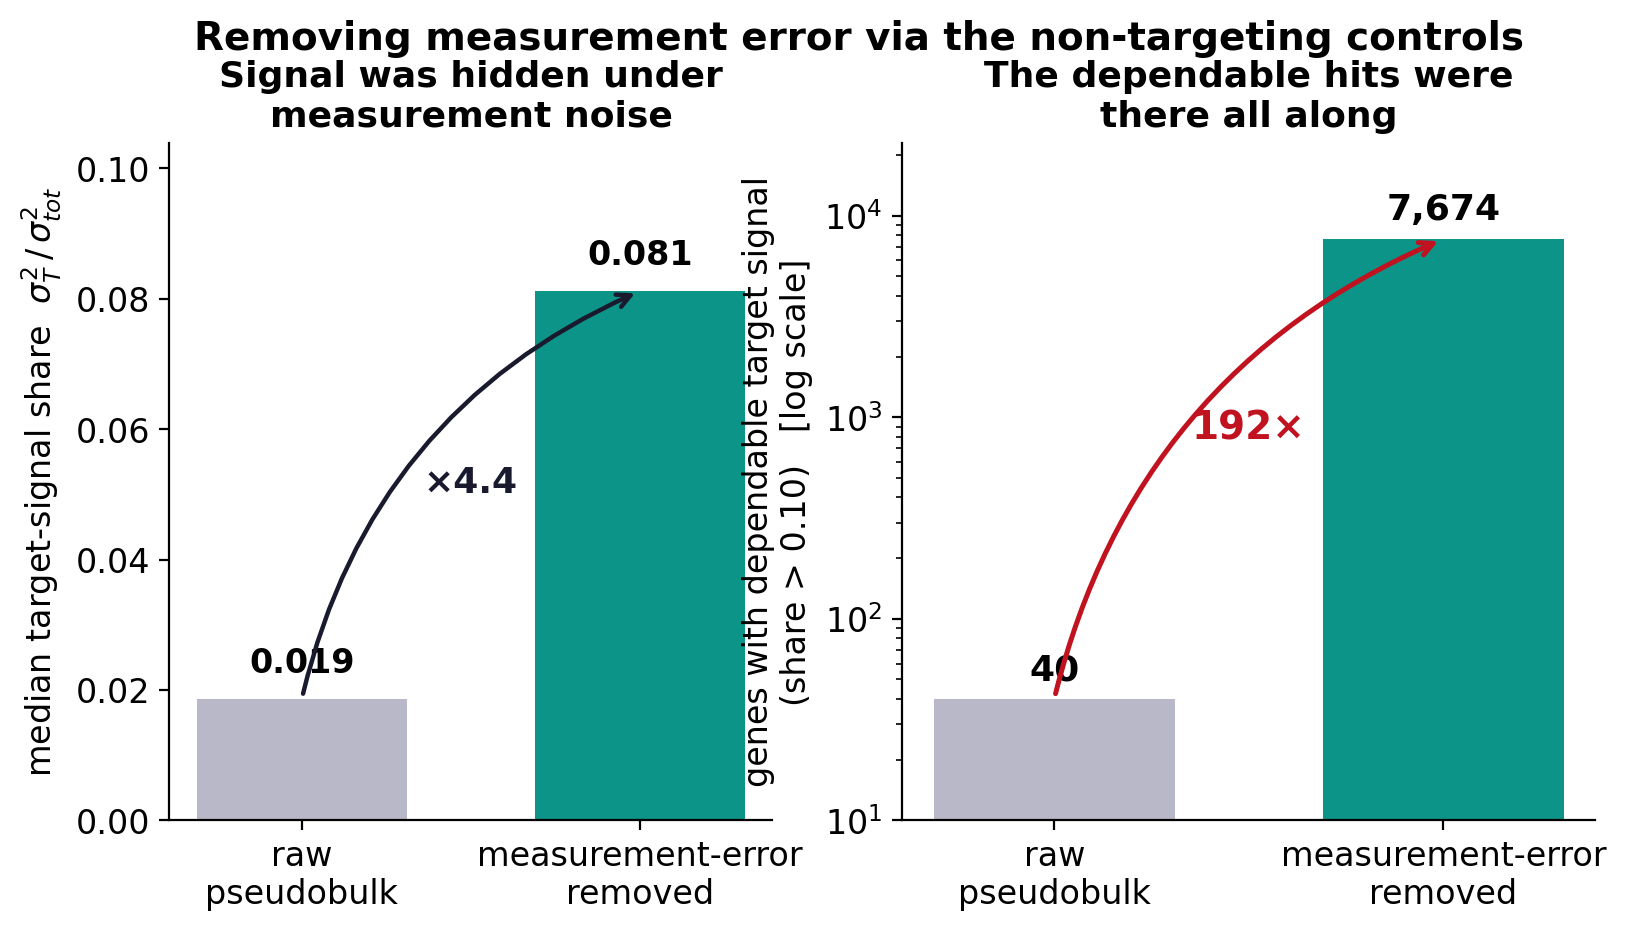
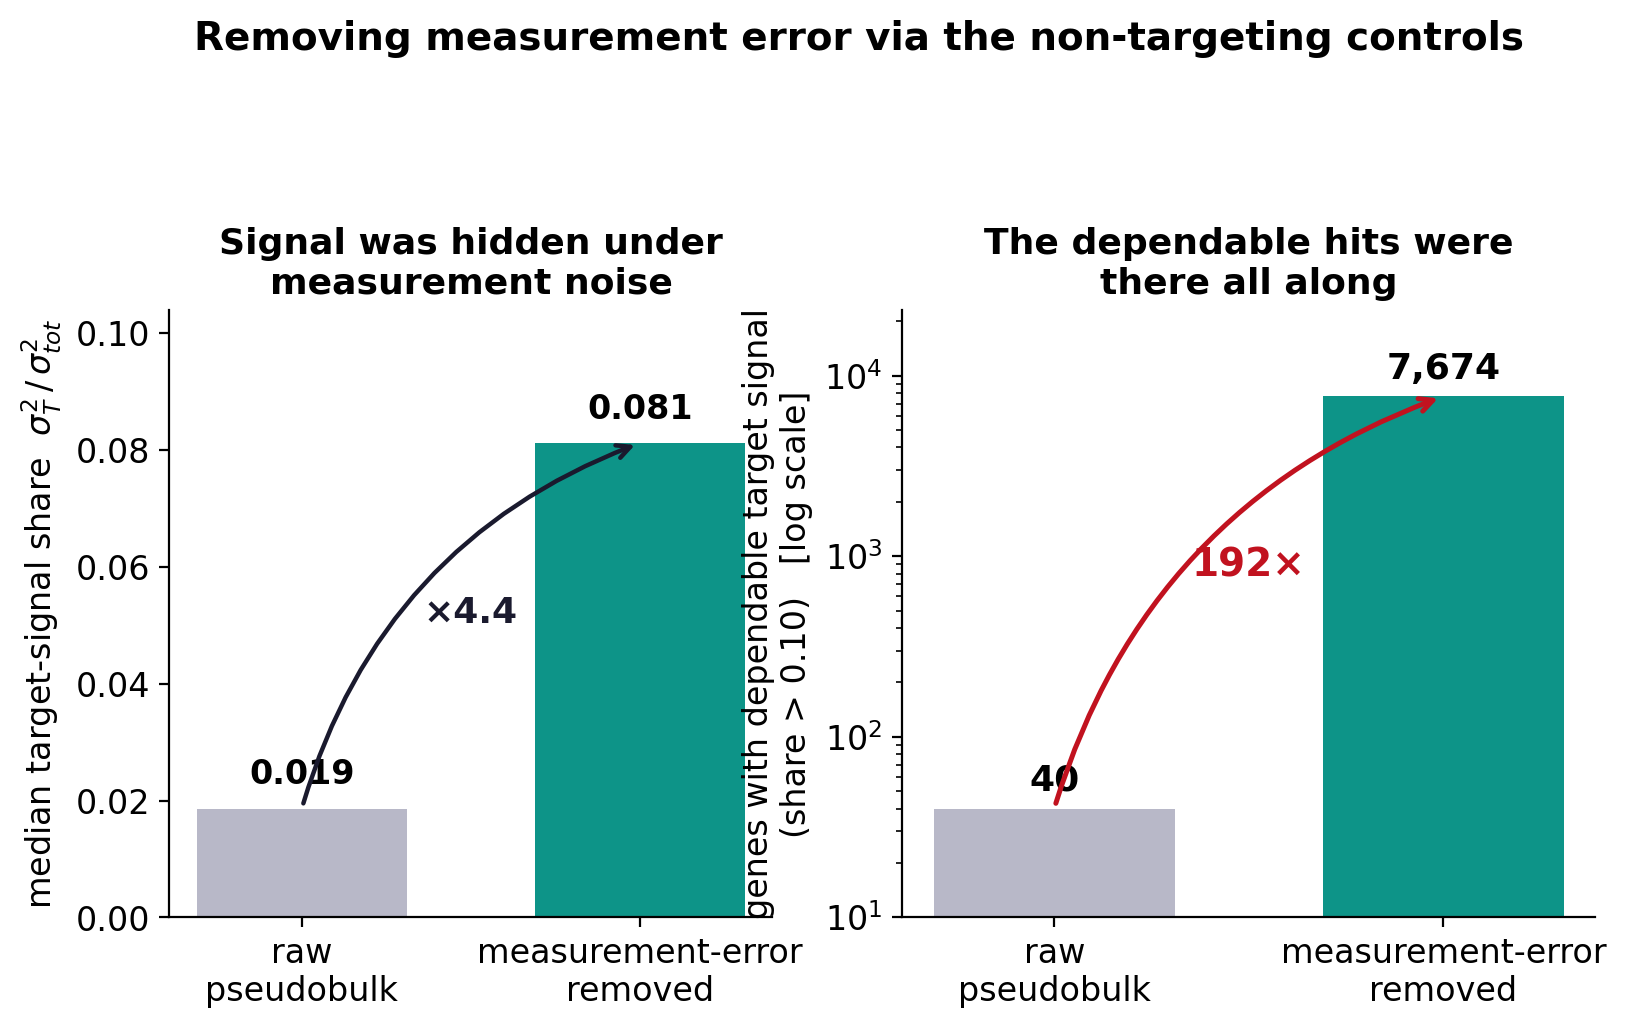
docs(manuscript): CTT/G-theory refs, §2.3→footnote, governance→appendix, fig1 spacing (#15)
Manuscript revision from author review:
- §2.1 now cites the classical-test-theory foundations (Lord & Novick 1968; Novick 1966, the axiomatic
  X=T+E with true score as expected observation) and Cronbach (1972) for G-theory.
- Aligned notation to Brennan (2001) 'Generalizability Theory' as the source of truth, cited in §3.
  Confirms the discipline already in use: design-level coefficients are Eρ²/Φ (correct in the D-study,
  Table 1 — NOT an old symbol), the per-target R_dep,t is our labeled extension.
- §2.3 (split-half vs Spearman–Brown) demoted from a subsection to a footnote — the load-bearing point
  kept, the bloat removed.
- Main text refocused on biology + data: §3 is now 'Data and estimation' (added a dataset paragraph).
  The IDD/Sol/parallel-ai-agents governance narrative + its figure moved to Appendix A.
- fig1 (me-removal): added headroom so the suptitle clears the two subplot titles.
Recompiles clean (9pp, 0 undefined/errors, 8 refs).

Refs #15

diff --git a/manuscript/main.tex b/manuscript/main.tex
@@ -83,13 +83,14 @@ experimental facet limits it.
 
 \subsection{The crossed design and its facets}
 
-The experimental structure maps onto a psychometric measurement design. The
-target gene is the object of measurement; the true perturbation signature is the
-universe score; the two guides per gene act as parallel forms; the four donors
-and the three culture conditions are crossed facets; cell sampling and sequencing
-contribute residual error. Classical test theory writes an observed score as
-$X = T + E$; generalizability theory decomposes the error term into named
-sources,
+The experimental structure maps onto a psychometric measurement design
+\parencite{lordnovick1968}. The target gene is the object of measurement; the true
+perturbation signature is the universe score; the two guides per gene act as
+parallel forms; the four donors and the three culture conditions are crossed
+facets; cell sampling and sequencing contribute residual error. Classical test
+theory writes an observed score as $X = T + E$, its true score the expected
+observation over independent replications \parencite{novick1966}; generalizability
+theory \parencite{cronbach1972} decomposes the error term into named sources,
 \[
 E = E_{\mathrm{guide}} + E_{\mathrm{donor}} + E_{\mathrm{condition}}
       + E_{\mathrm{interactions}} + E_{\mathrm{residual}},
@@ -116,7 +117,13 @@ mean profiles that differ only in that facet:
 \begin{itemize}
   \item $\Rg$: the target's guides are split into two halves, each half's mean
   profile is formed, and the two are correlated. A high value indicates that the
-  transcriptional signature reproduces across independent guide sets.
+  transcriptional signature reproduces across independent guide
+  sets.\footnote{These are raw single-observation split-half correlations. The
+  reliability of the deployed two-guide average is the Spearman--Brown step-up
+  $2r/(1+r)$, a separate and larger quantity; we report the single-observation form
+  because the joint coefficient is defined at the single-guide-by-single-donor
+  level. Both are distribution-light empirical correlations rather than Gaussian
+  variance-component ratios.}
   \item $\Rd$: the same construction with a two-versus-two donor split, followed
   by a moment-based empirical-Bayes shrinkage toward the pooled mean, which is
   warranted because four donors leave the donor coefficient with three degrees of
@@ -154,55 +161,24 @@ reproducibility. The equality is exact under the additive model; a
 guide-by-donor interaction would add a further disagreement term, so the
 error-adding form is an upper bound when interactions are present.
 
-\subsection{Split-half versus Spearman--Brown}
+\section{Data and estimation}
 
-A split-half correlation estimates the reliability of a \emph{single} level of a
-facet. The reliability of the deployed design, which averages over the two guides
-actually used, follows from the Spearman--Brown step-up
-$R_{\mathrm{full}} = 2r/(1+r)$. We report the raw single-observation split-half
-$r$, because the joint coefficient is defined at the single-guide-by-single-donor
-observation level; the stepped-up value is a separate, larger quantity,
-appropriate when the question is the dependability of the measurement one
-actually takes rather than the generalization of a single observation. Both are
-distribution-light empirical correlations; the Gaussian crossed mixed model is
-retained only as a baseline comparator, not as the reported estimator.
-
-\section{Estimation and reproducible adversarial review}
+The data are the released summary statistics of a genome-scale Perturb-seq screen
+in primary human CD4+ T cells \parencite{zhu2025}: CRISPR perturbations of
+$18{,}129$ genes in a crossed design of two guides per gene, four donors, and
+three culture conditions (Rest, Stim8hr, Stim48hr), with non-targeting guides as
+controls. We work from the released joint pseudobulk and define each
+perturbation's per-gene effect as its non-targeting-control-relative log-CPM within
+the matched donor-condition-run stratum, so that the effect is measured against the
+controls that share its technical context. No single-cell data are processed.
 
 The gene-level variance components are estimated with a precision-weighted
-crossed mixed model fit per gene on the joint pseudobulk. The estimator was not
-assumed. Three candidates were compared by pre-registered synthetic recovery, and
-the precision-weighted model was the only one to recover the planted components in
-both Gaussian and heavy-tailed regimes; a distance-based candidate failed, because
-a distance share is not a variance component.
-
-The methodology was developed under an auditable process
-(Figure~\ref{fig:hardening}). Each decision --- the choice of estimator, the
-thresholds, the classification of each facet as random or fixed, the criterion
-for identifiability --- was recorded as a versioned issue using issue-driven
-development \parencite{idd} and spec-driven development, both open-source tooling
-the author maintains. Because the reasoning was documented rather than implicit,
-the frozen record could be subjected to adversarial review by an independent
-frontier model, which returned a blocked verdict with eleven findings, three of
-them critical, spanning identifiability, measurement error, selection, validation
-leakage, and compute. Each finding was resolved within the same recorded loop:
-the falsification gates and controls were frozen before any real result was
-inspected, the estimator was selected as above, and a mis-specified reliability
-aggregation (a product of coefficients) was replaced by the joint coefficient of
-Section~2.2. The resolutions were then cross-verified across models with a second
-adversarial pass and with \texttt{parallel-ai-agents} \parencite{parallelaiagents},
-a package the author maintains that dispatches a task to independent agents and
-cross-compares their outputs. The recorded decisions, the blocked verdict, and
-every resolution are versioned in the repository.
-
-\begin{figure}[t]
-  \centering
-  \includegraphics[width=\linewidth]{fig5_sol_hardening.pdf}
-  \caption{The recorded, cross-model-hardened process: a decision ledger enables
-  adversarial review by an independent model, whose blocked verdict is resolved
-  in the same loop. The verdict was blocked and worked through, not certified.}
-  \label{fig:hardening}
-\end{figure}
+crossed mixed model fit per gene, following the generalizability-theory design of
+Section~2 \parencite{brennan2001}. The estimator was not assumed. Three candidates
+were compared by pre-registered synthetic recovery, and the precision-weighted
+model was the only one to recover the planted components in both Gaussian and
+heavy-tailed regimes; a distance-based candidate failed, because a distance share
+is not a variance component.
 
 \section{Results}
 
@@ -353,6 +329,38 @@ are scheduled on a compute cluster; the results shown are the local synthetic an
 real-data tier. Finally, this is a re-analysis of released data, so the
 design-study guidance is prospective, addressed to subsequent screens rather than
 to the present one.
+
+\appendix
+
+\section{A recorded, cross-model-hardened process}
+
+The methodology was developed under an auditable process
+(Figure~\ref{fig:hardening}). Each decision --- the choice of estimator, the
+thresholds, the classification of each facet as random or fixed, the criterion
+for identifiability --- was recorded as a versioned issue using issue-driven
+development \parencite{idd} and spec-driven development, both open-source tooling
+the author maintains. Because the reasoning was documented rather than implicit,
+the frozen record could be subjected to adversarial review by an independent
+frontier model, which returned a blocked verdict with eleven findings, three of
+them critical, spanning identifiability, measurement error, selection, validation
+leakage, and compute. Each finding was resolved within the same recorded loop:
+the falsification gates and controls were frozen before any real result was
+inspected, the estimator was selected as in Section~3, and a mis-specified
+reliability aggregation (a product of coefficients) was replaced by the joint
+coefficient of Section~2.2. The resolutions were then cross-verified across models
+with a second adversarial pass and with \texttt{parallel-ai-agents}
+\parencite{parallelaiagents}, a package the author maintains that dispatches a task
+to independent agents and cross-compares their outputs. The recorded decisions, the
+blocked verdict, and every resolution are versioned in the repository.
+
+\begin{figure}[t]
+  \centering
+  \includegraphics[width=\linewidth]{fig5_sol_hardening.pdf}
+  \caption{The recorded, cross-model-hardened process: a decision ledger enables
+  adversarial review by an independent model, whose blocked verdict is resolved
+  in the same loop. The verdict was blocked and worked through, not certified.}
+  \label{fig:hardening}
+\end{figure}
 
 \printbibliography
 

diff --git a/analysis/resolution/realdata/make_figures.py b/analysis/resolution/realdata/make_figures.py
@@ -61,7 +61,8 @@ def fig1():
     axR.annotate("", xy=(1, n_corr), xytext=(0, n_raw),
                  arrowprops=dict(arrowstyle="->", color=RED, lw=1.8, connectionstyle="arc3,rad=-0.25"))
     axR.text(0.5, np.sqrt(n_raw * n_corr) * 1.4, "192×", ha="center", color=RED, fontsize=14, fontweight="bold")
-    fig.suptitle("Removing measurement error via the non-targeting controls", fontsize=14, fontweight="bold", y=1.02)
+    fig.subplots_adjust(top=0.80)   # reserve headroom so the suptitle clears the two subplot titles
+    fig.suptitle("Removing measurement error via the non-targeting controls", fontsize=14, fontweight="bold", y=1.13)
     save(fig, "fig1_me_removal")
 
 # ---------- Fig 2: D-study Erho2 surface ----------